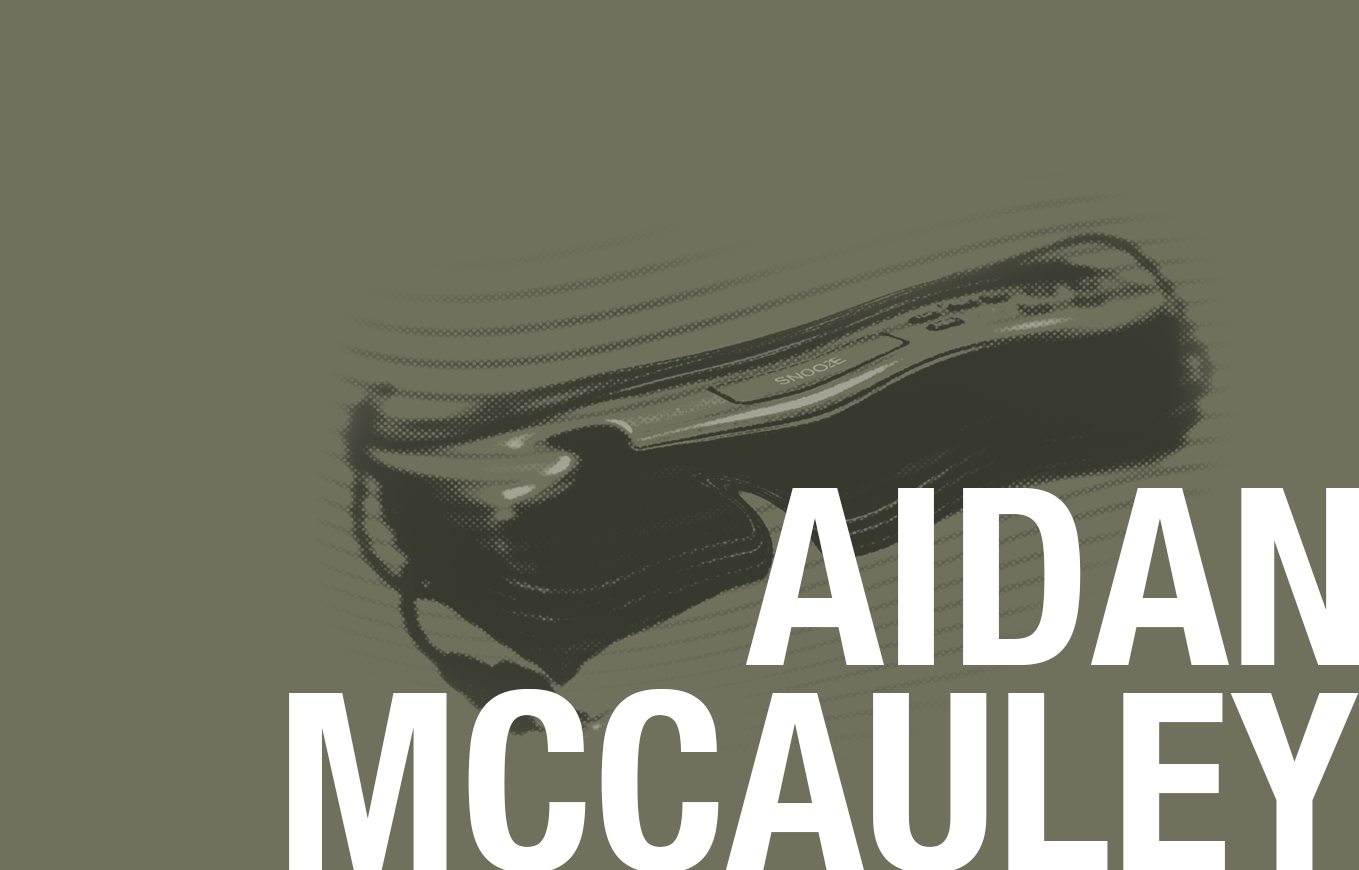
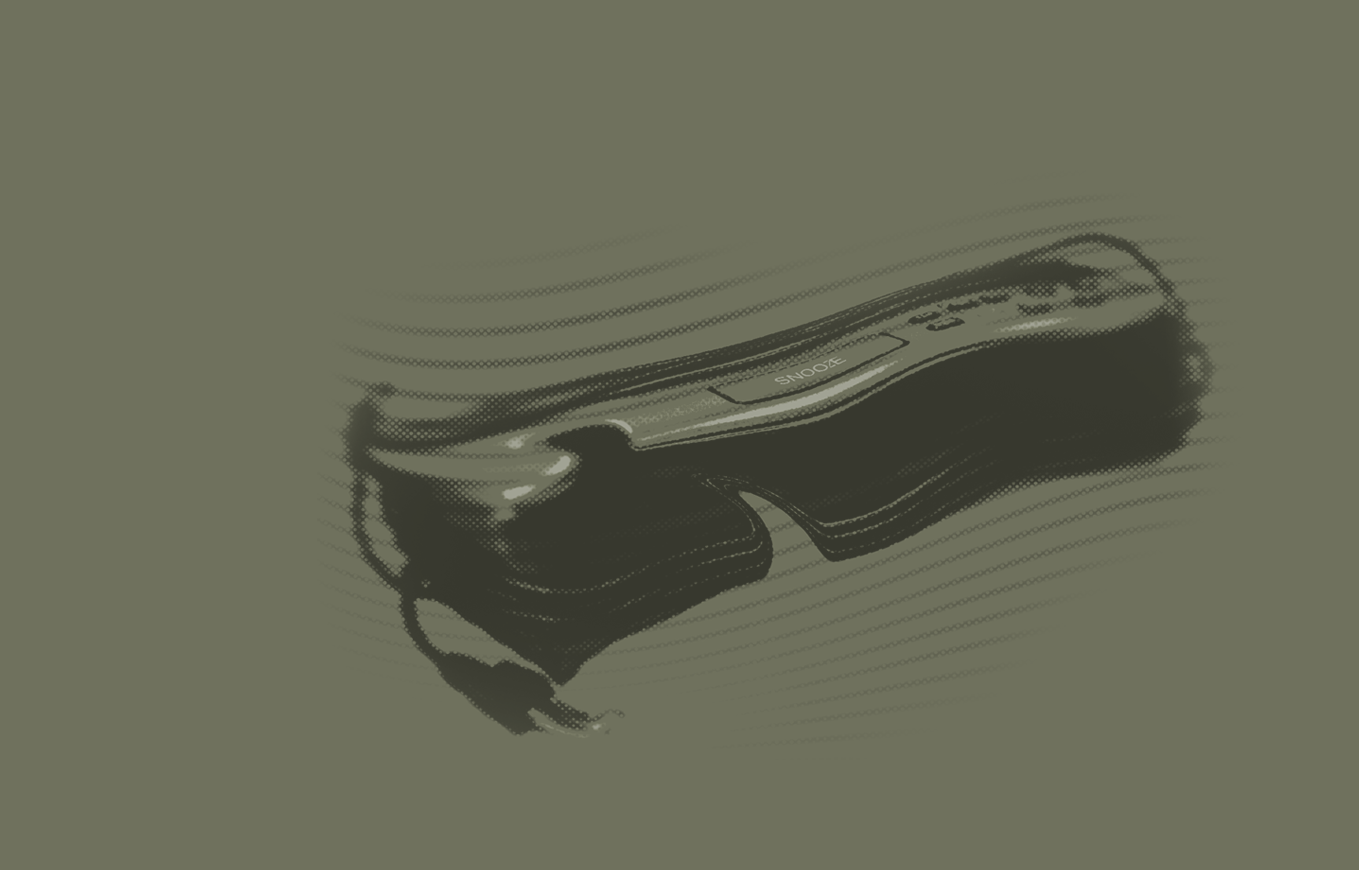
Stage 1 clean up

Changed region(s): [[0.1854, 0.5586, 1.0, 1.0]]

diff --git a/src/styles/global.css b/src/styles/global.css
@@ -46,6 +46,7 @@
 
 html {
   scroll-behavior: smooth;
+  overflow-x: clip;
 }
 
 /* ----- Page base ----- */
@@ -332,7 +333,7 @@ header {
   align-items: center;
   background-color: #6f715d;
   background-image: url("/assets/Homepage_Graphic.png");
-  background-size: cover;
+  background-size: 100%;
   background-position: bottom;
   background-repeat: no-repeat;
   position: relative;
@@ -345,7 +346,12 @@ header {
     background-size: contain;
     background-position: center;
     height: 0;
-    padding-top: 61%;
+    padding-top: min(55%, 30vh);
+    padding-bottom: 0;
+  }
+
+  header h1 {
+    display: none;
   }
 }
 
@@ -371,21 +377,30 @@ h1 {
 
 header h1 {
   color: #fff;
+  font-size: min(15vw, 30vh);
+  letter-spacing: 0.02em;
+  white-space: nowrap;
   text-shadow:
-    0 1px 0 color-mix(in srgb, var(--nav-bg) 72%, black 28%),
-    0 3px 0 color-mix(in srgb, var(--nav-bg) 82%, black 18%),
-    0 7px 14px color-mix(in srgb, var(--nav-bg) 55%, black 45%);
+    1px 1px 0 black,
+    3px 2px 0 rgba(0,0,0,0.45),
+    4px 5px 12px rgba(0,0,0,0.3);
   position: absolute;
-  bottom: -1rem;
-  right: var(--section-pad-inline);
+  bottom: -2vw;
+  right: -0.2vw;
   text-align: right;
 }
 
+header h1 .hero-first {
+  display: block;
+  transform: translateX(1.2vw);
+  margin-bottom: -0.2em;
+}
+
 .hero-intro {
-  width: 30%;
+  width: clamp(240px, 32%, 420px);
   margin: 0;
   padding: clamp(0.9rem, 2.1vw, 1.3rem) clamp(1rem, 2.2vw, 1.6rem);
-  font-size: clamp(1rem, 1.02vw, 0.96rem);
+  font-size: clamp(0.85rem, 1.3vw, 1.1rem);
   line-height: 1.22;
   letter-spacing: 0.01em;
   color: var(--main-text);
@@ -405,6 +420,7 @@ header h1 {
 
 #mobile-intro {
   color: var(--main-text);
+  min-height: 0;
 }
 
 @media (min-width: 1001px) and (min-height: 526px) {
@@ -473,7 +489,7 @@ section {
 } 
 
 .contact-icon {
-    width: 2rem;
+    width: 2.75rem;
     height: auto;
     margin-bottom: 1rem;
     margin-left: auto;
@@ -498,7 +514,7 @@ section {
   flex: 1;
   display: flex;
   flex-direction: column;
-  justify-content: end;
+  justify-content: center;
   gap: clamp(1.2rem, 3.2vw, 2rem);
   padding-top: clamp(1rem, 2.5vw, 1.65rem);
   padding-bottom: clamp(1.15rem, 2.8vw, 1.85rem);
@@ -518,6 +534,8 @@ section {
 
 #portfolio .section-inner>h2 {
   margin-bottom: clamp(0.85rem, 2.2vw, 1.65rem);
+  color: white;
+  font-size: clamp(3rem, 8vw, 6rem);
 }
 
 .portfolio-block {
@@ -556,6 +574,19 @@ h2 {
   align-items: end;
   width: 100%;
   color: var(--main-text);
+}
+
+#contact a {
+  text-decoration: none;
+  font-size: clamp(1.1rem, 2vw, 1.4rem);
+}
+
+#contact .contact-wrap > div {
+  transition: transform 0.2s ease;
+}
+
+#contact .contact-wrap > div:hover {
+  transform: scale(1.1);
 }
 
 @media (max-width: 900px) {
@@ -709,14 +740,14 @@ h2 {
 .ad-grid {
   display: grid;
   grid-template-columns: repeat(3, 1fr);
-  gap: 1rem;
+  gap: 0;
 }
 
 .ad-card {
   position: relative;
   overflow: hidden;
   padding: 0;
-  border: var(--border);
+  border: none;
   background: var(--main-bg);
   cursor: pointer;
   display: block;
@@ -828,8 +859,7 @@ h2 {
 /* ===== FOOTER (back-to-top + copyright) ===== */
 footer {
   border-bottom: var(--border);
-  min-height: 25.5vh;
-  padding: clamp(2.1rem, 5vw, 3.4rem) var(--section-pad-inline) calc(6rem + env(safe-area-inset-bottom));
+  padding: clamp(1.2rem, 2.5vw, 1.8rem) var(--section-pad-inline) calc(1.2rem + env(safe-area-inset-bottom));
   display: grid;
   place-items: center;
   row-gap: 1em;
@@ -1121,28 +1151,75 @@ footer {
   padding-top: clamp(3.4rem, 6vw, 5rem);
 }
 
-#about .section-inner,
+#about {
+  overflow: hidden;
+  display: flex;
+  flex-direction: column;
+}
+
+#about .section-inner {
+  width: 100%;
+  flex: 1;
+  display: flex;
+  flex-direction: column;
+}
+
 #portfolio .section-inner {
   width: 100%;
 }
 
 #about h2 {
   color: white;
-  font-size: 35vh;
-  letter-spacing: 0;
+  font-size: min(35vh, 28vw);
+  letter-spacing: -0.02em;
+  line-height: 1;
+  flex-shrink: 0;
+  transform-origin: center;
+  text-shadow:
+    1px 1px 0 black,
+    3px 2px 0 rgba(0,0,0,0.45),
+    4px 5px 12px rgba(0,0,0,0.3);
 }
 
 #about p {
-  color: var(--main-text);
+  color: white;
   text-align: left;
   text-indent: 3ch;
-  font-size: 0.8rem;
-  color: white;
+  font-size: clamp(0.85rem, 1.5vw, 1.05rem);
 }
 
 .about-wrap {
   display: flex;
   flex-direction: row;
+  align-items: center;
+  gap: clamp(1rem, 3vw, 2.5rem);
+  flex: 1;
+}
+
+@media (min-aspect-ratio: 3/2) {
+  #about .about-copy {
+    flex: 1;
+    align-self: stretch;
+    overflow: hidden;
+  }
+}
+
+@media (max-aspect-ratio: 3/2) {
+  .about-wrap {
+    flex-direction: column;
+    align-items: flex-start;
+    gap: clamp(0.75rem, 2vw, 1.25rem);
+  }
+
+  #about h2 {
+    font-size: clamp(3rem, 20vw, 7rem);
+    letter-spacing: 0.04em;
+  }
+
+  #about p {
+    font-size: clamp(0.9rem, 4vw, 1.05rem);
+    text-indent: 3ch;
+  }
 }
 
 

diff --git a/public/scripts/site.js b/public/scripts/site.js
@@ -186,4 +186,107 @@
   window.addEventListener("pageshow", forceScrollTop);
 
   applyMotionPreferences();
+
+  /* ---- About heading vertical fill ---- */
+  var aboutScaleTimer;
+  var landscapeQuery = window.matchMedia("(min-aspect-ratio: 3/2)");
+
+  function scaleAboutHeading() {
+    var aboutSection = document.getElementById("about");
+    if (!aboutSection) return;
+    var h2 = aboutSection.querySelector("h2");
+    var wrap = aboutSection.querySelector(".about-wrap");
+    if (!h2 || !wrap) return;
+
+    h2.style.transform = "";
+    h2.style.transformOrigin = "";
+
+    if (!landscapeQuery.matches) return;
+
+    // Use canvas measureText to get actual ink bounds (not the CSS line box,
+    // which includes dead space above caps and below baseline for descenders).
+    var cs = window.getComputedStyle(h2);
+    var canvas = document.createElement("canvas");
+    var ctx = canvas.getContext("2d");
+    ctx.font = cs.fontStyle + " " + cs.fontWeight + " " + cs.fontSize + " " + cs.fontFamily;
+    // Measure each character individually and use the minimum ascent.
+    // This anchors scale to the flat-topped letters (A, B, T) so they
+    // exactly touch the section boundaries; rounder letters (O, U) with
+    // optical overshoot extend beyond and get clipped by overflow:hidden.
+    var text = h2.textContent.trim().toUpperCase();
+    var minAscent = Infinity;
+    for (var i = 0; i < text.length; i++) {
+      var m = ctx.measureText(text[i]);
+      if (m.actualBoundingBoxAscent > 0) {
+        minAscent = Math.min(minAscent, m.actualBoundingBoxAscent);
+      }
+    }
+    if (!isFinite(minAscent)) return;
+    var glyphHeight = minAscent;
+
+    // Inject a zero-size probe to locate the baseline within the h2.
+    var probe = document.createElement("span");
+    probe.style.cssText = "display:inline-block;width:0;height:0;line-height:0;";
+    h2.appendChild(probe);
+    var sectionRect = aboutSection.getBoundingClientRect();
+    var h2Rect = h2.getBoundingClientRect();
+    var probeRect = probe.getBoundingClientRect();
+    h2.removeChild(probe);
+
+    // Convert glyph bounds into section-relative coordinates.
+    var baselineFromH2Top = probeRect.top - h2Rect.top;
+    var glyphTopFromSection = (h2Rect.top - sectionRect.top) + (baselineFromH2Top - minAscent);
+
+    // Scale so the ink fills the full section height.
+    var scale = sectionRect.height / glyphHeight;
+
+    // Solve for origin (section-relative) that maps glyph top → section top.
+    // O + (glyphTop − O) × scale = 0  →  O = glyphTop × scale / (scale − 1)
+    var originFromSection = scale > 1 ? glyphTopFromSection * scale / (scale - 1) : 0;
+    var originFromH2 = originFromSection - (h2Rect.top - sectionRect.top);
+
+    h2.style.transformOrigin = "left " + originFromH2 + "px";
+    h2.style.transform = "scaleY(" + scale + ")";
+  }
+
+  function scaleAboutText() {
+    var p = document.getElementById("aboutCopy");
+    if (!p) return;
+
+    p.style.fontSize = "";
+
+    if (!landscapeQuery.matches) return;
+
+    // clientHeight is fixed by flex stretch; scrollHeight grows with font size.
+    var availH = p.clientHeight;
+    if (!availH) return;
+
+    var lo = 4, hi = 400;
+    for (var i = 0; i < 24; i++) {
+      var mid = (lo + hi) / 2;
+      p.style.fontSize = mid + "px";
+      if (p.scrollHeight <= availH) {
+        lo = mid;
+      } else {
+        hi = mid;
+      }
+    }
+    p.style.fontSize = lo + "px";
+  }
+
+  function scaleAbout() {
+    scaleAboutHeading();
+    scaleAboutText();
+  }
+
+  window.addEventListener("resize", function () {
+    clearTimeout(aboutScaleTimer);
+    aboutScaleTimer = setTimeout(scaleAbout, 50);
+  });
+
+  if (landscapeQuery.addEventListener) {
+    landscapeQuery.addEventListener("change", scaleAbout);
+  }
+
+  scaleAbout();
 })();
